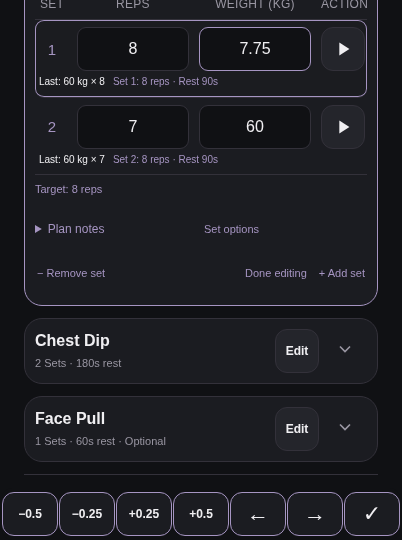
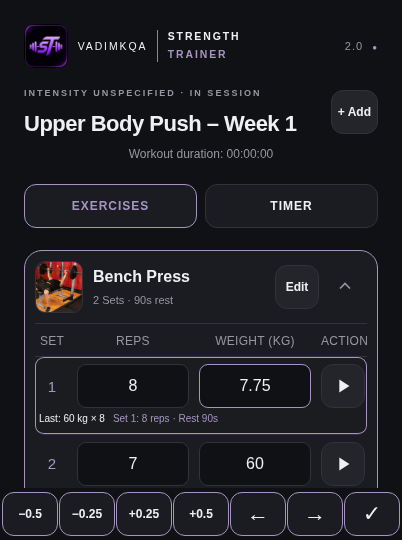
Ignore provisional accessory bounds during initial focus reveal

diff --git a/tests/iphone-accessory.spec.ts b/tests/iphone-accessory.spec.ts
@@ -199,6 +199,20 @@ test('running set, exercise drag guards and timer phase survive accessory touche
   await expect(field(page)).toHaveValue('8.625');
   expect((await stored(page)).active.controller.phase).toBe('set');
 });
+test('initial hidden accessory cannot scroll an already-visible input against a provisional top:0 rectangle', async ({
+  page,
+}) => {
+  await page.setViewportSize({ width: 402, height: 874 });
+  await beginCards(page);
+  await page.evaluate(() => {
+    (document.activeElement as HTMLElement)?.blur();
+    scrollTo(0, 0);
+  });
+  await field(page).evaluate((input) => input.focus({ preventScroll: true }));
+  await expect(page.locator('.set-input-navigation')).toHaveAttribute('data-positioned', 'true');
+  await expect.poll(() => page.evaluate(() => scrollY)).toBe(0);
+  await expect(field(page)).toBeFocused();
+});
 test('402x874 iPhone 17 Pro-sized standalone preview has one compact app accessory', async ({
   page,
 }) => {

diff --git a/src/useKeyboardViewport.ts b/src/useKeyboardViewport.ts
@@ -57,7 +57,12 @@ export function useKeyboardViewport() {
           const delta = focusedInputDelta(
             focused.getBoundingClientRect(),
             vv || { offsetTop: 0, height: innerHeight },
-            document.querySelector('.set-input-navigation')?.getBoundingClientRect().top,
+            // A newly mounted fixed accessory is hidden at top:0 until its first viewport placement.
+            // Never scroll the input against that provisional, non-visible rectangle.
+            document.querySelector<HTMLElement>('.set-input-navigation')?.dataset.positioned ===
+              'true'
+              ? document.querySelector('.set-input-navigation')!.getBoundingClientRect().top
+              : undefined,
           );
           if (delta) window.scrollBy({ top: delta, behavior: 'instant' });
         }

diff --git a/docs/iphone-keyboard-accessory.md b/docs/iphone-keyboard-accessory.md
@@ -12,7 +12,7 @@ The old absolute coordinates combined `scrollY`, `scrollX`, `visualViewport.offs
 
 `top = min(visualViewport.offsetTop + visualViewport.height, layoutViewport.height − bottomSafeArea) − measured accessory height`
 
-Document scrolling is never added to this value. Horizontal geometry comes only from CSS left/right safe-area insets; neither `scrollX` nor visual viewport horizontal panning changes its x position. Resize/visual-scroll events are batched into one animation frame reading the latest bounds. The bar is hidden until positioned. Body/main sizing, navigation offsets, controller anchoring and the single document scroller are unchanged.
+Document scrolling is never added to this value. Horizontal geometry comes only from CSS left/right safe-area insets; neither `scrollX` nor visual viewport horizontal panning changes its x position. Resize/visual-scroll events are batched into one animation frame reading the latest bounds. The bar is hidden until positioned. The focus-reveal hook ignores its provisional hidden `top: 0` rectangle, preventing an initial unnecessary input/page scroll before the first measured placement. Body/main sizing, navigation offsets, controller anchoring and the single document scroller are unchanged.
 
 Visible bounds are intersected with the layout safe edge: when the keyboard reduces the visible area below that edge, safe area is not subtracted a second time. There is no keyboard-open threshold or estimated keyboard height, so crossing a threshold cannot introduce a separate safe-area jump. The existing focused-input reveal hook consumes the accessory's measured top after it moves. This is not a second keyboard-height calculation and does not translate fixed app chrome.
 
